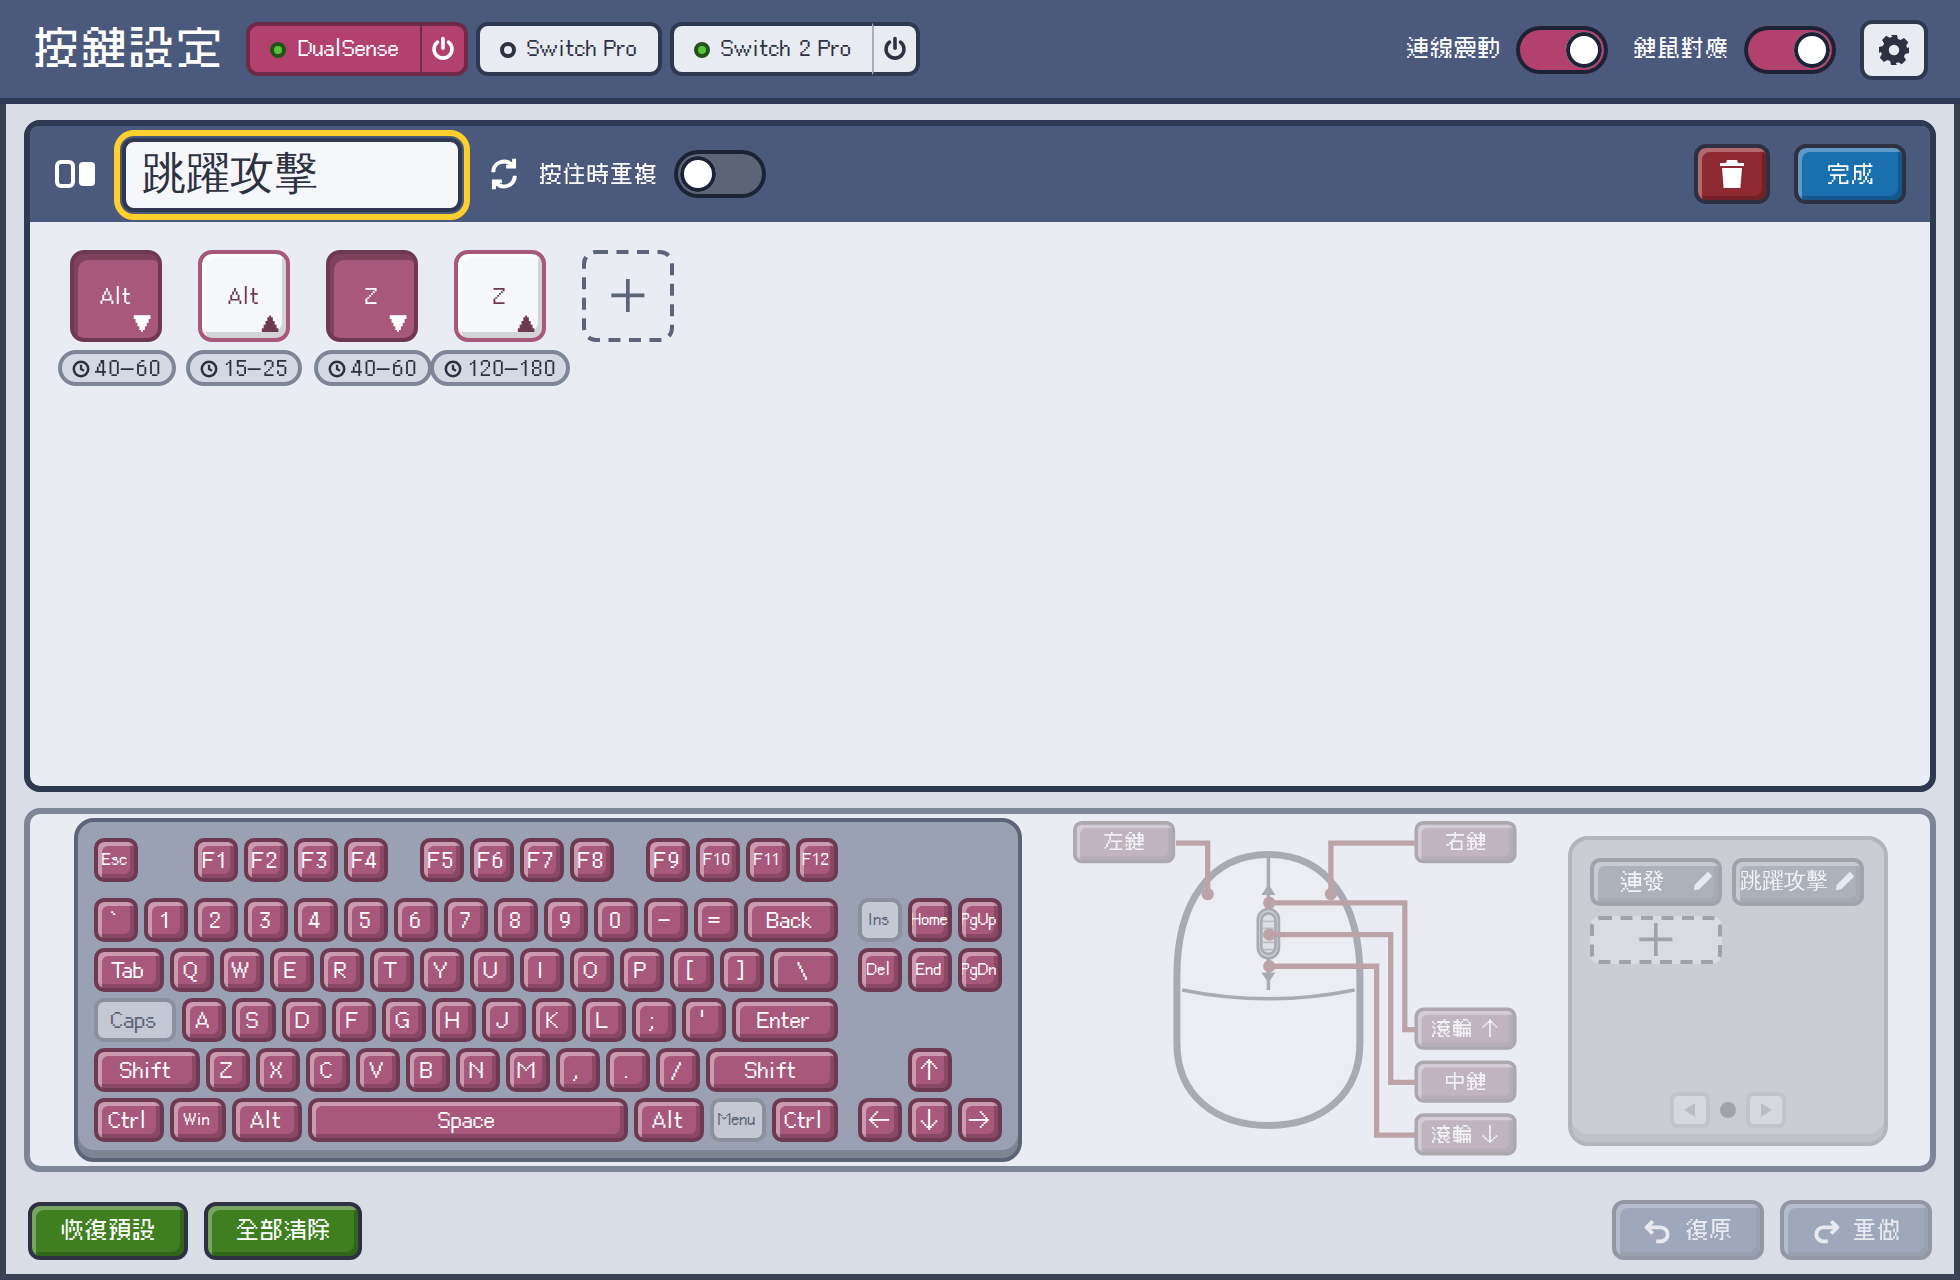
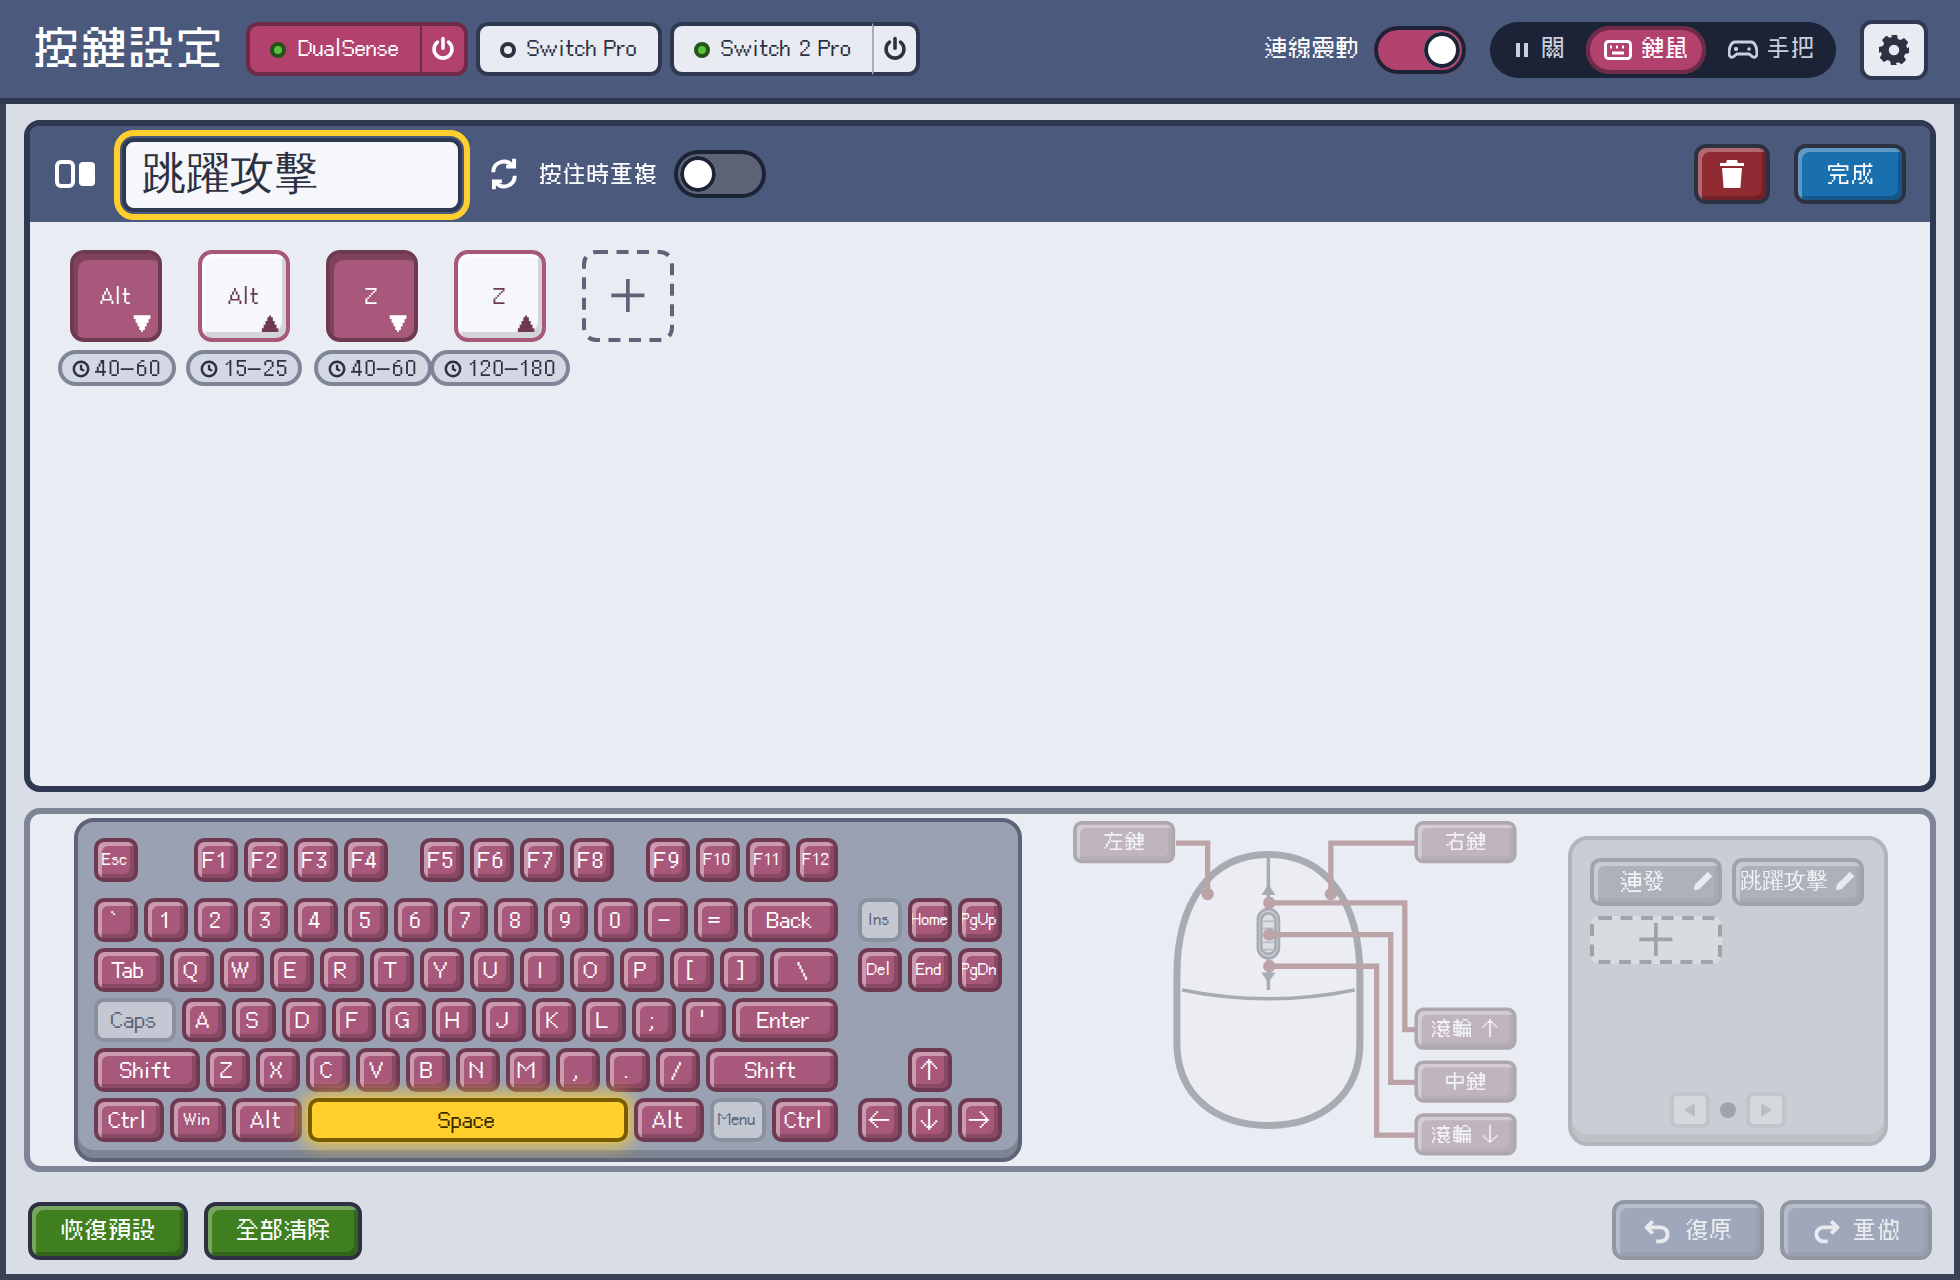
release(v3.2.0): output capsule, per-pad off, ViGEmBus install, event sources

Changed region(s): [[0.6536, 0.0, 0.9337, 0.0625], [0.1556, 0.8438, 0.3423, 0.9062]]

diff --git a/README.md b/README.md
@@ -8,7 +8,7 @@
 </p>
 <p align="center"><sub>按鍵設定畫面：把鍵盤、滑鼠或巨集方塊拖到按鈕的格子上就綁好了。按下的按鈕和它送出的鍵會亮起來。</sub></p>
 
-PadToKBM（舊名 DualSense Mapper）是一個 Windows 小程式：一個約 11 MB 的 `PadToKBM.exe`，不用安裝、沒有驅動。
+PadToKBM（舊名 DualSense Mapper）是一個 Windows 小程式：一個約 11 MB 的 `PadToKBM.exe`，不用安裝、不附驅動。
 支援 **DualSense（PS5）、Switch Pro、Switch 2 Pro** 三種手把，每支各自一套按鍵設定。
 最初是為了讓我太太在筆電上用手把玩 MapleStory Worlds Artale 而寫的。
 
@@ -26,6 +26,7 @@ PadToKBM（舊名 DualSense Mapper）是一個 Windows 小程式：一個約 11 
 | 一鍵連發、固定招式要按很多下 | **巨集**：錄一串按下／放開，可以循環；每一步的延遲都是「最短～最長」的範圍 |
 | 怕被當成腳本或外掛 | 所有按鍵時間都帶隨機，沒有固定節拍；只用 Windows 一般的按鍵輸入，不注入、不改遊戲 |
 | 鍵卡住放不開 | 手把斷線、關掉程式、程式當掉時，按著的鍵都會放開 |
+| 有時想直接用手把玩 | 右上角每支手把各自選「關｜鍵鼠｜手把」：手把就是程式不送東西、遊戲直接用手把（Switch 2 Pro 變成 Xbox 手把） |
 
 ---
 
@@ -63,7 +64,7 @@ PadToKBM（舊名 DualSense Mapper）是一個 Windows 小程式：一個約 11 
   </tr>
   <tr>
     <td><sub><b>巨集。</b>點鍵盤的鍵加步驟，拖曳排順序，拖出去刪除。</sub></td>
-    <td><sub><b>設定</b>（齒輪）：設定檔與最近的事件、搖桿校正、觸控板、按鍵時間，按「儲存」才套用。</sub></td>
+    <td><sub><b>設定</b>（齒輪）：設定檔與最近的事件（每筆標出是哪顆按鈕或哪個巨集送的）、搖桿校正、觸控板、按鍵時間，按「儲存」才套用。</sub></td>
   </tr>
 </table>
 
@@ -75,14 +76,20 @@ PadToKBM（舊名 DualSense Mapper）是一個 Windows 小程式：一個約 11 
 
 ### 會不會被當成外掛？
 
-它只做「手把按鍵 → 鍵盤按鍵」，跟你自己按鍵盤一樣，用的是 Windows 一般的按鍵輸入（`SendInput`），不注入程式、不改遊戲檔、不裝驅動。
+它只做「手把按鍵 → 鍵盤按鍵」，跟你自己按鍵盤一樣，用的是 Windows 一般的按鍵輸入（`SendInput`），不注入程式、不改遊戲檔，本身也不帶驅動。
 為了不像腳本，按住時間（`min_press_ms`）、同時按下的錯開（`tick_jitter_ms`）、巨集每一步的延遲都是隨機範圍，不能設成固定值。
 要自己檢查的話，把設定的「記錄每個按鍵事件」打開，每個送出的鍵都會連同時間寫進設定檔旁邊的 `padtokbm-events.log`（超過 1 MB 會換成 `.log.1` 再重寫）。
 
 ### Switch 2 Pro 連上了，遊戲卻沒反應？
 
-Switch 2 Pro 預設是**不轉鍵鼠**：PadToKBM 把它變成一支虛擬 Xbox 手把給遊戲用，這需要先安裝
-[ViGEmBus 1.22.0](https://github.com/nefarius/ViGEmBus/releases/tag/v1.22.0)。想讓它送鍵盤按鍵，把畫面上方的「鍵鼠對應」打開。
+先看畫面右上的「關｜鍵鼠｜手把」（Switch 2 Pro 的第三格寫「Xbox」）：
+
+- **鍵鼠**（預設）：按鍵送出鍵盤、滑鼠，不需要其他東西。
+- **Xbox**：PadToKBM 把它變成一支虛擬 Xbox 手把給遊戲用，這需要
+  [ViGEmBus 1.22.0](https://github.com/nefarius/ViGEmBus/releases/tag/v1.22.0)。這台還沒裝的話，選 Xbox 時會跳出提示，
+  按「安裝 ViGEmBus」會下載官方安裝程式、核對檔案後執行（會要求系統管理員權限）。
+- **關**：這支手把這次先不送任何東西，重開程式就恢復。
+
 建議用 Windows 11（Windows 10 的藍牙會把它限制在約 17 Hz）。
 
 ### 設定檔在哪？可以直接改嗎？
@@ -97,6 +104,7 @@ Switch 2 Pro 預設是**不轉鍵鼠**：PadToKBM 把它變成一支虛擬 Xbox 
 ### 不想用的時候可以把手把關掉嗎？
 
 可以，點手把名稱旁的電源鍵。配對會保留，按 PS／HOME 鍵就能再連上。
+只想讓遊戲直接用手把（不轉鍵鼠）就選「手把」；暫時不想讓它送東西就選「關」。
 
 ### 支援 USB、DualSense Edge、Xbox 手把或 macOS 嗎？
 

diff --git a/CHANGELOG.md b/CHANGELOG.md
@@ -3,6 +3,48 @@
 Format follows [Keep a Changelog](https://keepachangelog.com/en/1.1.0/);
 project adheres to [Semantic Versioning](https://semver.org/spec/v2.0.0.html).
 
+## [3.2.0] - 2026-10-13
+
+### Added
+
+- **關｜鍵鼠｜手把 in the header**, per controller. It replaces the
+  「鍵鼠對應」 switch. 鍵鼠 = buttons send keyboard / mouse; 手把 = the
+  program sends nothing and the game uses the controller itself (on the
+  Switch 2 Pro the third segment reads 「Xbox」: the game sees a virtual Xbox
+  pad); 關 = this controller sends nothing for now. 鍵鼠 / 手把 are saved
+  (`mapping_enabled`, schema unchanged); 關 is for this session only and a
+  restart clears it. While 關 or 手把, a banner says so and the board is
+  dimmed but stays editable. Switching to 關 releases every held key, stops
+  running macros and unplugs the virtual pad, like pause does.
+- **ViGEmBus prompt.** Picking Xbox on a PC without ViGEmBus opens a short
+  explanation with 稍後 / 改回鍵鼠 / 安裝 ViGEmBus. 安裝 downloads the
+  official ViGEmBus 1.22.0 installer from its GitHub release, checks its size
+  and sha256, and runs it (Windows asks for administrator rights); a file
+  that does not match is deleted and nothing runs. 稍後 leaves a 「!」 beside
+  the capsule that reopens it.
+- **最近的事件 says what sent each key**: the button (its glyph, as on the
+  board for the selected controller) or the macro name, e.g.
+  「△ → 送出 J 按下」. The event log file gets the same as a fourth column
+  (`src=btn:3`, `src=macro:連發`).
+- New IPC: `set_pad_off`, `get_vigem_status`, `install_vigem`;
+  `controller-status` carries `off_pads`.
+
+### Changed
+
+- **Every controller now defaults to 鍵鼠**, the Switch 2 Pro included (it
+  used to default to the virtual Xbox pad, which looked like "connected but
+  the game does nothing" on a PC without ViGEmBus). The bundled first-run
+  config says `"ns2_pro": true`.
+- Iron rule 7 (CLAUDE.md): the app still never ships a driver; on the
+  user's click it may download, verify and run the pinned official ViGEmBus
+  installer.
+
+### Migration
+
+- Existing configs are unchanged: a first-run file from an older version
+  holds `"ns2_pro": false`, so a Switch 2 Pro keeps its Xbox output. Pick
+  鍵鼠 in the header to get keys instead.
+
 ## [3.1.2] - 2026-10-13
 
 ### Fixed

diff --git a/CLAUDE.md b/CLAUDE.md
@@ -158,11 +158,14 @@ The board's IPC surface the mock answers: reads `get_controller_status`,
 `set_trigger_mode`, `clear_pad`, `reset_pad`, `set_pad_tables`,
 `set_macro`, `rename_macro`, `delete_macro`, `set_settings`,
 `set_mapping_enabled`, `set_rumble_on_connect`, `save_stick_cal`,
-`reset_stick_cal`, `set_ui_prefs`; fire-and-forget
+`reset_stick_cal`, `set_ui_prefs`; runtime-only `set_pad_off` (header 關,
+returns the off pads, no `config-changed`); ViGEmBus `get_vigem_status`,
+`install_vigem`; fire-and-forget
 `set_capture_active`, `disconnect_gamepad`, `open_config_in_editor`,
 `open_config_folder`. Events the board listens for: `controller-status`
-(`connected` bool + `connected_pads`), `button-down/up`,
-`touchpad-click/hover`, `activity`, `config-changed`.
+(`connected` bool + `connected_pads` + `off_pads` + `warnings`),
+`button-down/up`, `touchpad-click/hover`, `activity` (with `source`:
+`{button}` / `{macro}`), `config-changed`.
 
 What a PASS requires, captured as evidence:
 - Every header / slot / palette / footer / editor / settings control
